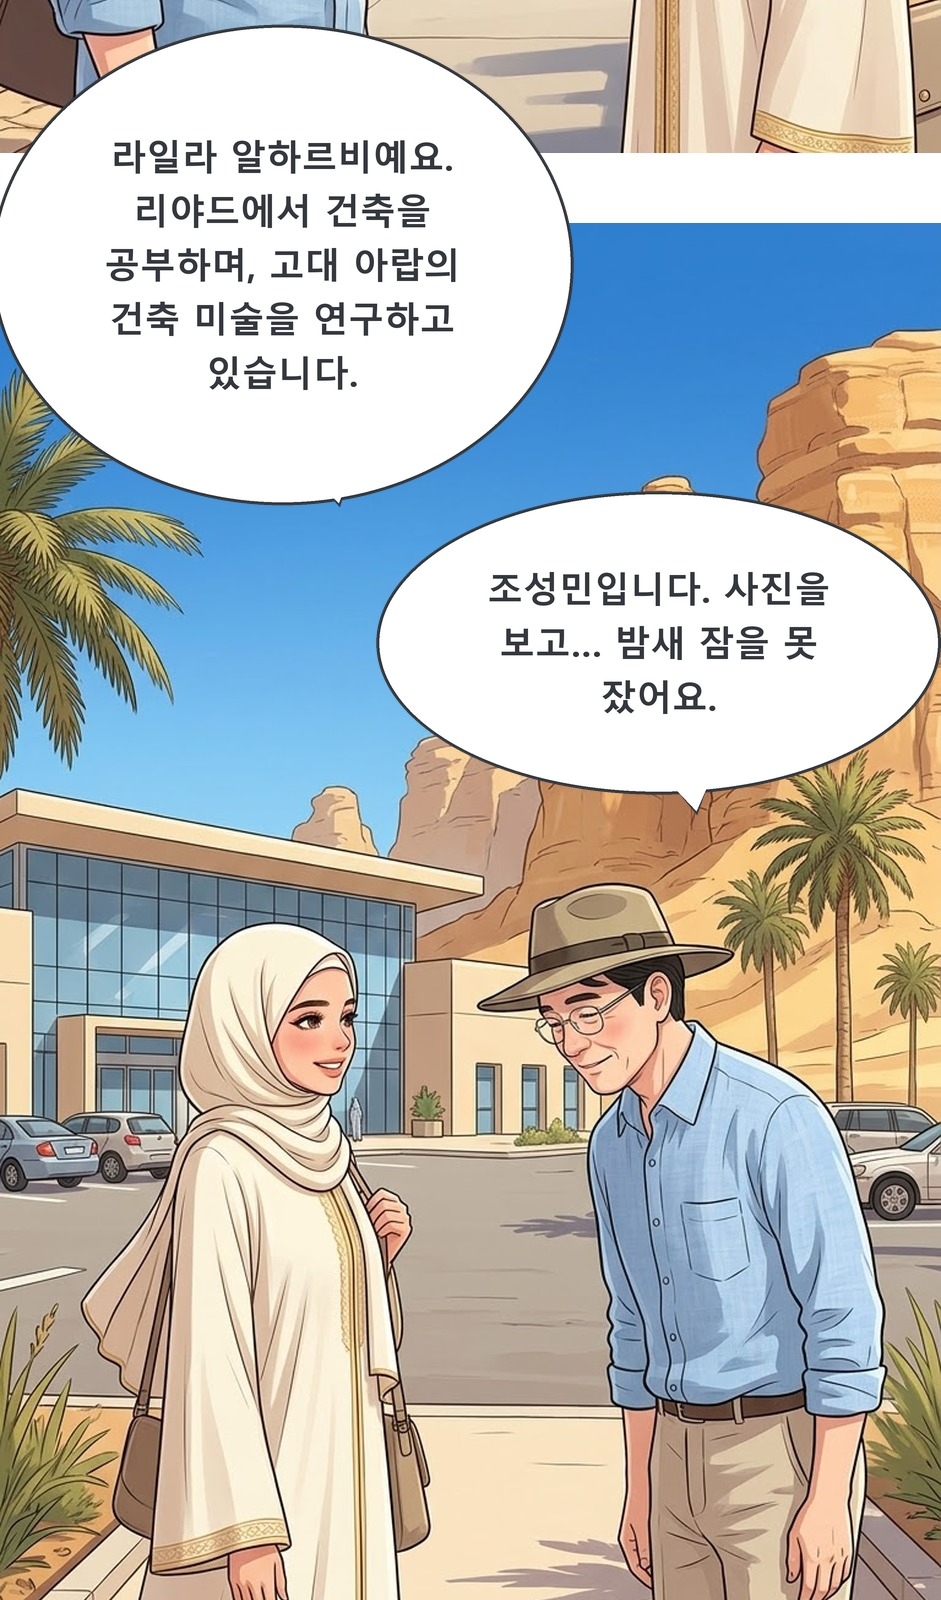
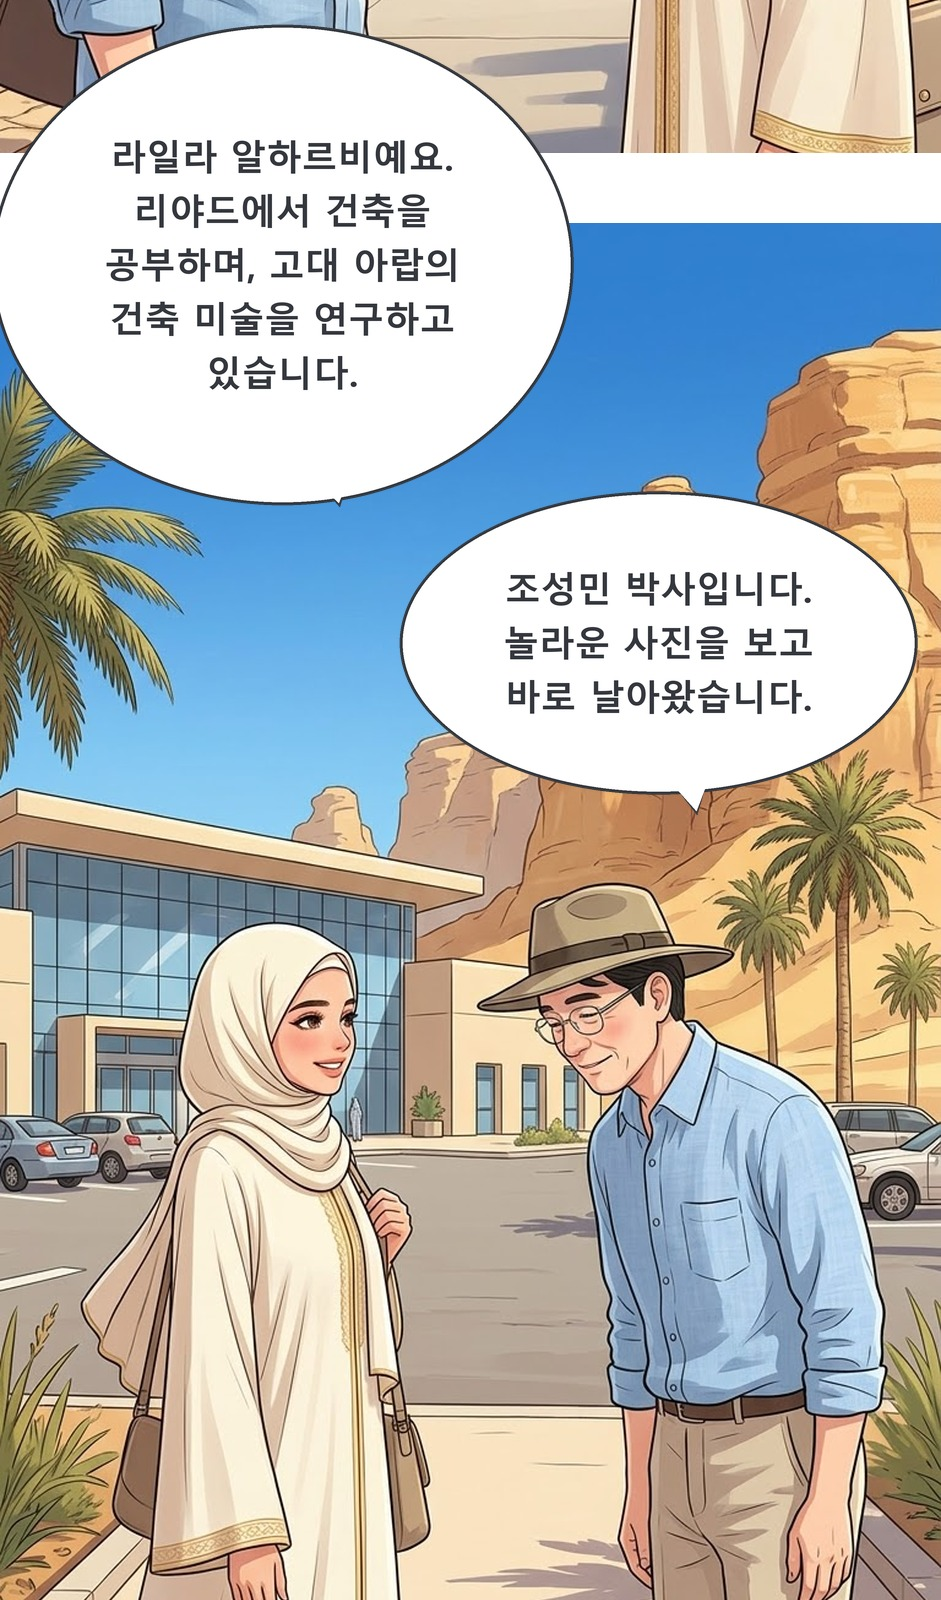
fix: 시즌2 7화 5컷 박사 대사 '조성민 박사입니다. 놀라운 사진을 보고 바로 날아왔습니다.'

Changed region(s): [[0.4006, 0.3125, 0.9245, 0.5], [0.8937, 0.3438, 1.0, 0.4688], [0.8013, 0.4688, 0.8937, 0.5]]

diff --git a/index.html b/index.html
@@ -61,7 +61,7 @@ footer{text-align:center;color:var(--muted);font-size:12px;padding:24px 16px 40p
 <nav id="nav"></nav>
 <main id="main"></main>
 <footer>여호수아 시즌1은 기존 Joshua-story 사이트에서 열립니다.</footer>
-<script src="data.js?v=202610211934"></script>
+<script src="data.js?v=202610211935"></script>
 <script>
 const esc = s => String(s).replace(/[&<>"]/g, c => ({'&':'&amp;','<':'&lt;','>':'&gt;','"':'&quot;'}[c]));
 const nav = document.getElementById('nav'), main = document.getElementById('main');

diff --git a/viewer.html b/viewer.html
@@ -41,7 +41,7 @@ select{font:inherit;font-size:13px;padding:4px 6px;border:1px solid var(--line);
   <p id="endNote"></p>
   <div class="nav" id="nav"></div>
 </div>
-<script src="data.js?v=202610211934"></script>
+<script src="data.js?v=202610211935"></script>
 <script>
 const sid = new URLSearchParams(location.search).get('s') || 'pureday';  // 2026-10-20 시즌2 카드
 const s = window.PORTAL.series.find(x => x.id === sid) || window.PORTAL.series.find(x => x.id === 'pureday');
